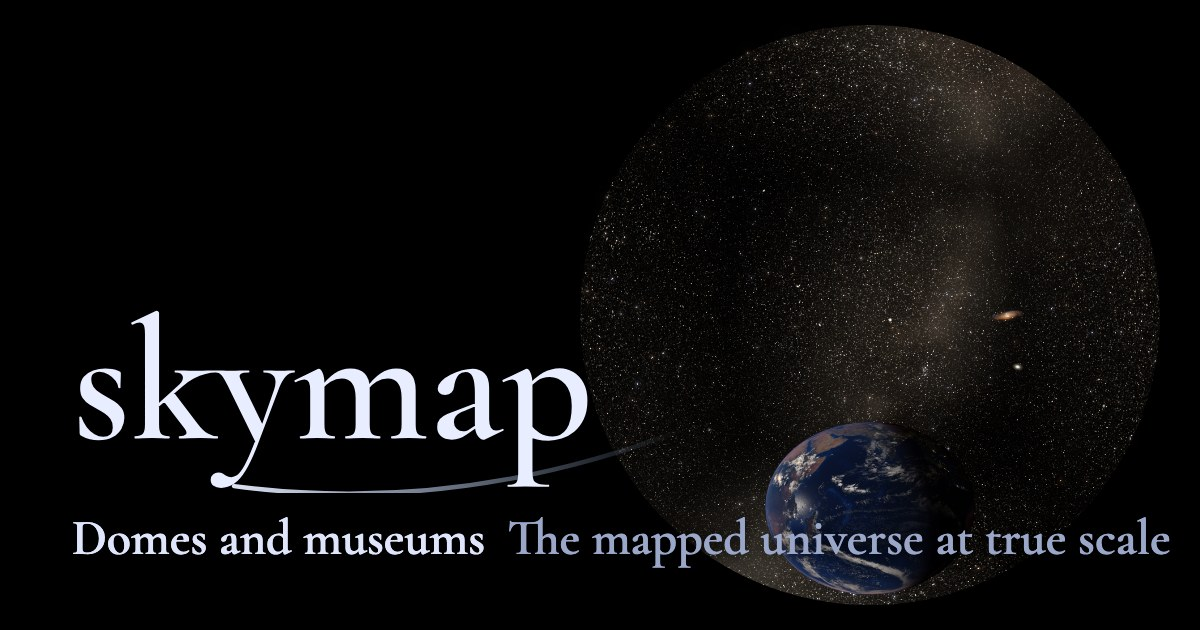
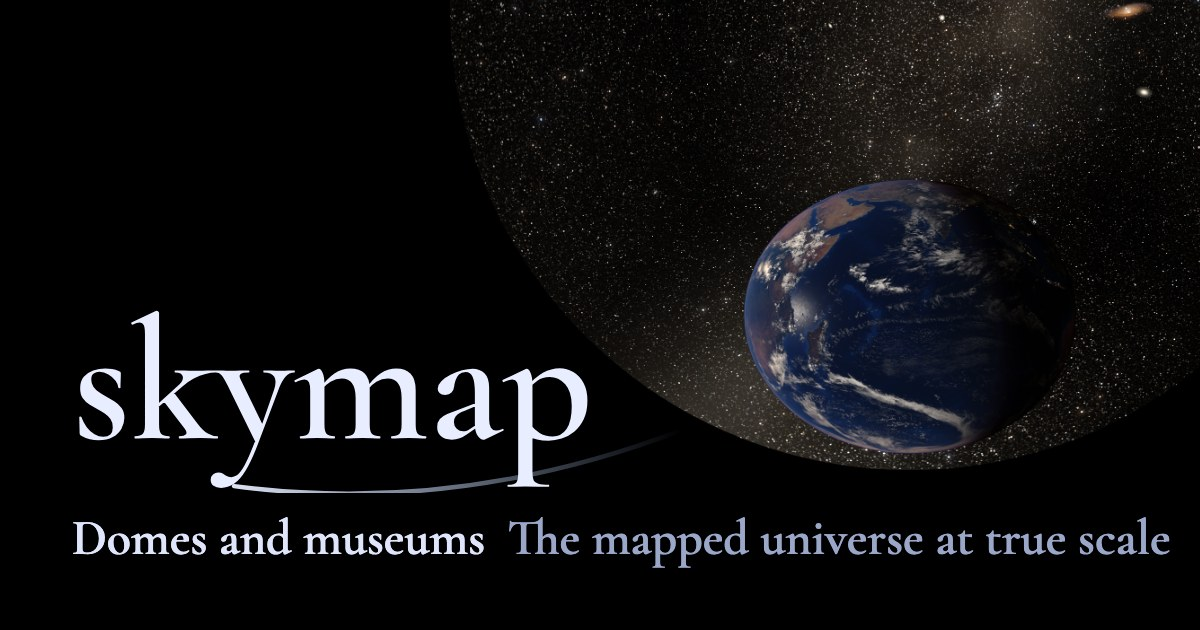
Domes card: the dome disc larger and raised half out of frame, Earth whole

diff --git a/packages/website/src/data/shareCards.ts b/packages/website/src/data/shareCards.ts
@@ -4,7 +4,7 @@ import type { ShareCard } from '../@types/ShareCard';
 export const SHARE_CARDS: readonly ShareCard[] = [
   { path: '/about/', shot: 'card-about' },
   { path: '/classroom/', shot: 'card-classroom' },
-  { path: '/domes/', shot: 'dome-earth', backdrop: 'right 40px center / auto 92% no-repeat' },
+  { path: '/domes/', shot: 'dome-earth', backdrop: 'right -170px top -450px / auto 920px no-repeat' },
   { path: '/features/', shot: 'card-features' },
   { path: '/science/', shot: 'card-science' },
 ];
